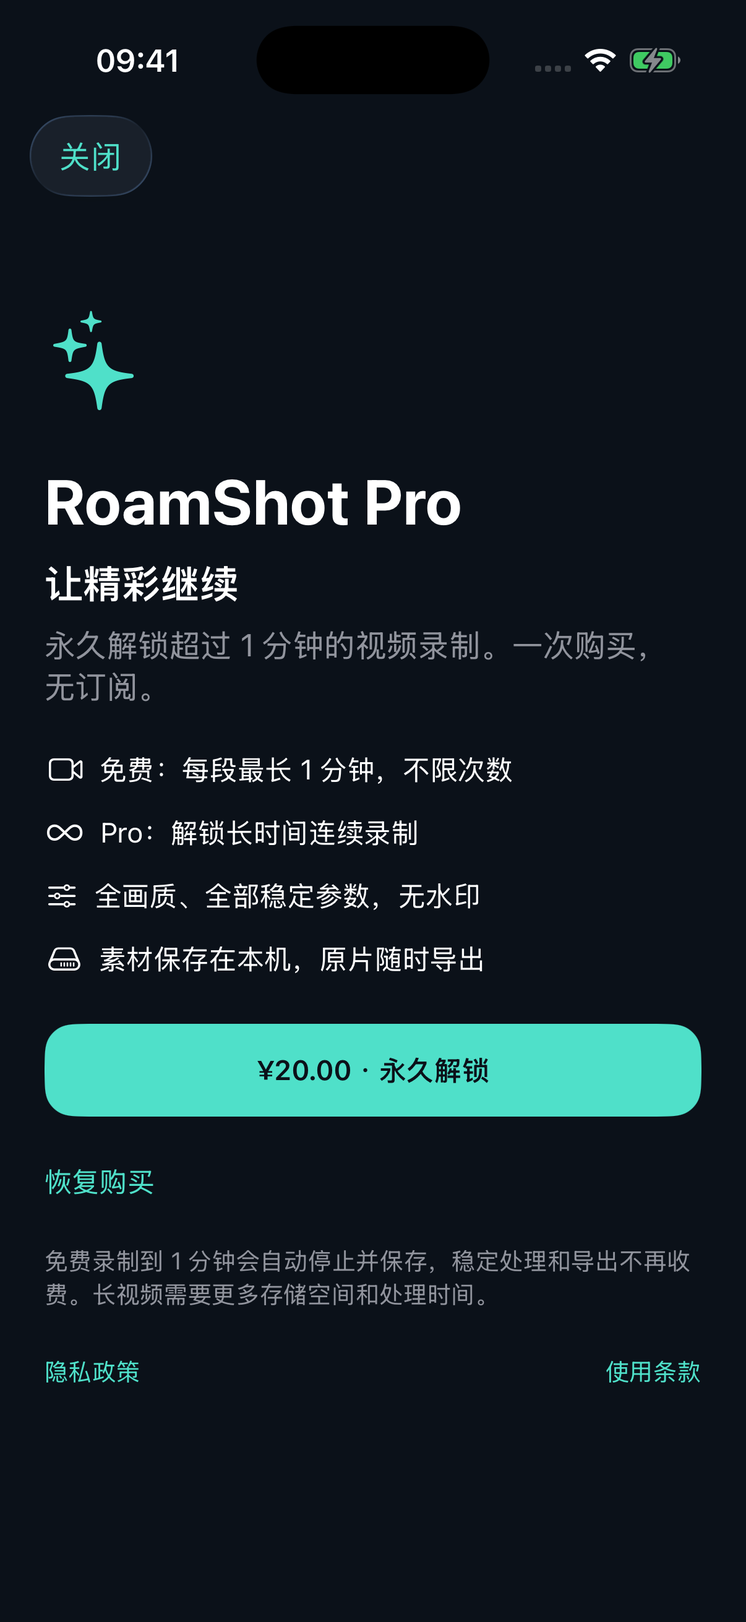
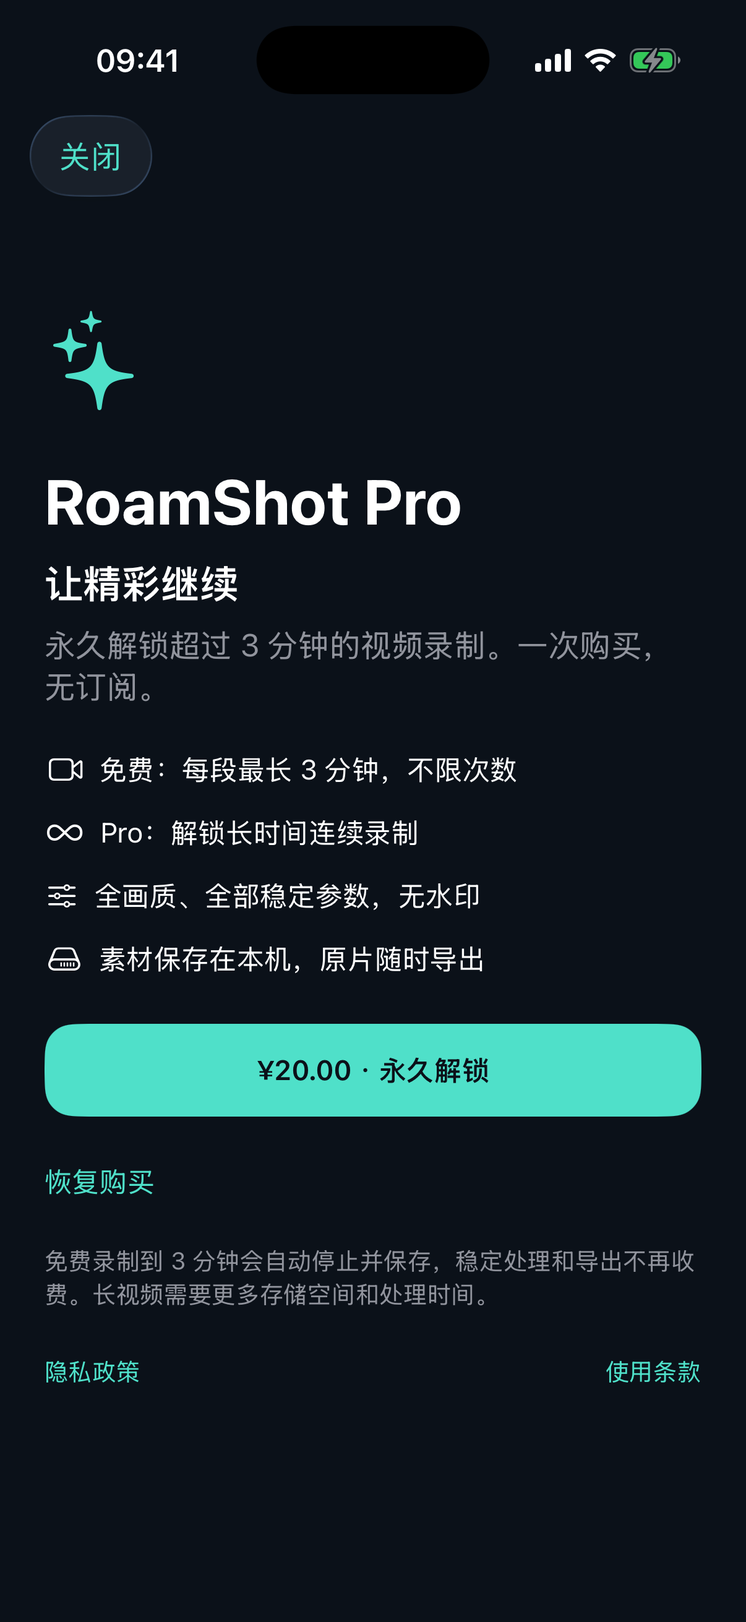
Increase free recording limit to three minutes

diff --git a/docs/app-store/review.html b/docs/app-store/review.html
@@ -1,9 +1,9 @@
 <!doctype html><html lang="zh-CN"><meta charset="utf-8"><meta name="viewport" content="width=device-width,initial-scale=1"><title>RoamShot 上架预览</title><style>
 *{box-sizing:border-box}body{margin:0;background:#0b1420;color:#f6f9fd;font:16px/1.65 -apple-system,BlinkMacSystemFont,"PingFang SC",sans-serif}main{max-width:1400px;margin:auto;padding:52px 32px}h1{font-size:40px;letter-spacing:-1px;margin:4px 0 12px}h2{font-size:23px;margin:35px 0 14px}.tag{color:#49dccc;font-weight:650}.lead{color:#aec0d0;font-size:19px;max-width:820px}.shot-plan{display:grid;grid-template-columns:repeat(2,1fr);gap:18px}.shot-plan>div{padding:25px;border:1px dashed #476478;border-radius:16px;background:#152334}.shot-plan h3{font-size:26px;margin:12px 0}.shot-plan p{color:#b4c6d8;margin:0}.cards{display:grid;grid-template-columns:repeat(3,1fr);gap:18px;margin-top:32px}.cards img{display:block;width:100%;border-radius:15px;border:1px solid #2b4054}.cards a:hover{transform:translateY(-4px)}a{color:#67ddd0;text-decoration:none;transition:.2s}.summary{display:grid;grid-template-columns:repeat(3,1fr);gap:14px;margin:30px 0}.summary div{padding:20px;background:#152334;border:1px solid #2c3d50;border-radius:16px}.summary b{display:block;font-size:22px}.summary span{color:#b4c6d8}.notice{padding:20px 24px;border-left:3px solid #4bdcc8;background:#142733;border-radius:0 12px 12px 0}p{max-width:900px}.copy{white-space:pre-line;color:#c6d4df}footer{margin:38px 0;color:#92a5b8}button,.action{display:inline-block;padding:13px 20px;border-radius:12px;background:#49dccc;color:#09202a;font-weight:700;margin:10px 12px 0 0}@media(max-width:900px){.cards{grid-template-columns:repeat(2,1fr)}.summary{grid-template-columns:1fr}}@media(max-width:500px){.shot-plan{grid-template-columns:1fr}main{padding:28px 18px}.cards{gap:10px}h1{font-size:31px}}
 </style><main><div class="tag">ROAMSHOT · APP STORE</div><h1>把 iPhone 变成运动相机。</h1><p class="lead">不用先买运动相机，从手中的 iPhone 开始。旅行、徒步、日常走拍，拍后轻松稳住画面；拉近远处，也支持长焦与变焦素材的拍后防抖。</p>
-<div class="summary"><div><b>1.0.0（27）</b><span>RoamShot · com.grape.RoamShot</span></div><div><b>中国大陆首发</b><span>免费下载 · 每段 1 分钟，不限次数</span></div><div><b>¥20 永久解锁</b><span>长时间连续录制 · 无订阅</span></div></div>
+<div class="summary"><div><b>1.0.2（34）</b><span>RoamShot · com.grape.RoamShot</span></div><div><b>中国大陆</b><span>免费下载 · 每段 3 分钟，不限次数</span></div><div><b>¥20 永久解锁</b><span>长时间连续录制 · 无订阅</span></div></div>
 <h2>拍摄、拉近、拍后稳定</h2><p>六张商店图，点击查看原尺寸。前两张使用新版实际拍摄控件与 AI 生成风景，展示 1× 和 2× 取景；画面已标注为演示素材。</p><div class="cards"><a href="screenshots/store/01-capture.png"><img src="screenshots/store/01-capture.png" alt="随身运动相机"></a><a href="screenshots/store/02-zoom.png"><img src="screenshots/store/02-zoom.png" alt="长焦与放大拍摄"></a><a href="screenshots/store/03-playback.png"><img src="screenshots/store/03-playback.png" alt="全屏回看"></a><a href="screenshots/store/04-simple.png"><img src="screenshots/store/04-simple.png" alt="轻松设置"></a><a href="screenshots/store/05-unlock.png"><img src="screenshots/store/05-unlock.png" alt="设置中永久解锁"></a><a href="screenshots/store/06-controls.png"><img src="screenshots/store/06-controls.png" alt="高级控制"></a></div>
-<h2>商店文案</h2><p class="tag">副标题：随身运动相机，长焦拍后防抖</p><p class="notice">把 iPhone 变成运动相机。旅行、徒步、日常走拍，用随身的手机记录，拍后轻松稳住画面；长焦与放大拍摄，也支持拍后防抖。每段 1 分钟免费拍摄，不限次数；长时间录制一次买断。</p><p class="copy">把 iPhone 变成运动相机。
+<h2>商店文案</h2><p class="tag">副标题：随身运动相机，长焦拍后防抖</p><p class="notice">把 iPhone 变成运动相机。旅行、徒步、日常走拍，用随身的手机记录，拍后轻松稳住画面；长焦与放大拍摄，也支持拍后防抖。每段 3 分钟免费拍摄，不限次数；长时间录制一次买断。</p><p class="copy">把 iPhone 变成运动相机。
 
 不用先买一台运动相机，从手中的 iPhone 开始。旅行、徒步、日常走拍，打开 RoamShot 记录眼前的精彩，拍摄后在手机上生成更稳定的视频。
 
@@ -20,7 +20,7 @@
 • 高级控制：按需调整裁切、缩放过渡和黑边。
 • 本机处理：无需上传素材，原片保留至手动删除。
 
-免费版每段最多录制 1 分钟，不限次数。轻点录制即可开始，到时自动停止并保存。升级入口在设置中，拍摄时不弹出购买提示。可使用全部稳定参数和导出功能，无水印。RoamShot Pro 一次购买永久解锁长时间连续录制，无订阅；价格以购买页面为准。
+免费版每段最多录制 3 分钟，不限次数。轻点录制即可开始，到时自动停止并保存。升级入口在设置中，拍摄时不弹出购买提示。可使用全部稳定参数和导出功能，无水印。RoamShot Pro 一次购买永久解锁长时间连续录制，无订阅；价格以购买页面为准。
 
 稳定处理适用于 RoamShot 拍摄的素材。录制规格和镜头切换取决于设备支持。较强的稳定可能需要更多裁切；高倍率、运动模糊、暗光和镜头切换会影响效果与画质。长视频需要足够存储和处理时间。</p>
-<h2>已填写的资料</h2><p>审核联系人和版权沿用 Sensor Recorder Pro。年龄分级 4+，隐私声明未收集数据；支持、隐私政策和使用条款网址已公开。App 与永久解锁内购放在同一审核草稿中。</p><div class="notice">尚未点击“提交以供审核”。确认后，在 App Store Connect 的“草稿提交”中检查 App 1.0.0（27）和永久解锁内购，再点击最后的提交按钮。当前配置为审核通过后自动发布。账户持有人需要处理 Apple 提示的新版开发者协议。</div><a class="action" href="https://appstoreconnect.apple.com/apps/6811549990/distribution/ios/version/inflight">打开 App Store Connect</a><a href="metadata-zh-Hans.md">查看完整资料</a><footer>截图中的风景为 AI 生成的界面演示素材，不作为防抖效果或真机拍摄证据。实际手机录满一分钟、购买恢复与 App Store 沙盒验收仍需完成。</footer></main></html>
+<h2>已填写的资料</h2><p>审核联系人和版权沿用 Sensor Recorder Pro。年龄分级 4+，隐私声明未收集数据；支持、隐私政策和使用条款网址已公开。App 与永久解锁内购放在同一审核草稿中。</p><div class="notice">尚未点击“提交以供审核”。确认后，在 App Store Connect 的“草稿提交”中检查 App 1.0.0（27）和永久解锁内购，再点击最后的提交按钮。当前配置为审核通过后自动发布。账户持有人需要处理 Apple 提示的新版开发者协议。</div><a class="action" href="https://appstoreconnect.apple.com/apps/6811549990/distribution/ios/version/inflight">打开 App Store Connect</a><a href="metadata-zh-Hans.md">查看完整资料</a><footer>截图中的风景为 AI 生成的界面演示素材，不作为防抖效果或真机拍摄证据。实际手机录满三分钟、购买恢复与 App Store 沙盒验收仍需完成。</footer></main></html>

diff --git a/docs/site/index.html b/docs/site/index.html
@@ -1,1 +1,1 @@
-<!doctype html><html lang="zh-CN"><meta charset="utf-8"><meta name="viewport" content="width=device-width, initial-scale=1"><title>RoamShot · 支持与帮助</title><link rel="stylesheet" href="style.css"><nav><a href="index.html">RoamShot</a><a href="privacy.html">隐私政策</a><a href="terms.html">使用条款</a></nav><main><div class="brand"><img class="icon" src="icon.png" alt="RoamShot 图标"><div><div class="tag">拍摄 · 稳定 · 分享</div><h1>RoamShot</h1></div></div><p>把 iPhone 变成运动相机。旅行、徒步、日常走拍，拍摄后在本机生成更稳定的视频，也支持长焦与变焦素材的拍后防抖。</p><section><h2>免费体验与永久解锁</h2><p>免费版每段最长录制 1 分钟，不限次数。到时自动停止并保存，稳定处理和导出均可正常使用。RoamShot Pro 一次购买，永久解锁超过 1 分钟的连续录制，无订阅。价格以 App 内显示和 Apple 购买确认页为准。</p></section><h2>如何使用</h2><ol><li>在拍摄设置中选择分辨率、帧率，以及稳定效果与输出尺寸。</li><li>轻点录制按钮直接开始；免费版录满 1 分钟会自动停止并保存。</li><li>停止录制后自动生成稳定视频。在素材中全屏播放、比较原片与结果，或调整效果重新生成。</li><li>轻点导出保存到相册。原片会保留到你手动删除素材。</li></ol><h2>升级与恢复购买</h2><p>升级入口位于「设置 → RoamShot Pro」，拍摄时不弹出购买提示。已购买用户可在该页面轻点「恢复购买」，使用购买时的 Apple 账户。购买等待批准时，批准后会自动更新权益。</p><h2>常见问题</h2><p><strong>处理速度与发热：</strong>高分辨率、高帧率和长视频需要更多时间、空间和电量。保持 App 在前台，设备过热时稍后再处理。</p><p><strong>灯光频闪与拖影：</strong>在室内灯光下可尝试自动曝光。较短曝光有助于减少运动模糊，但需要足够光线。</p><p><strong>导出失败：</strong>在系统设置中允许添加照片，检查可用存储后重试。导出直接保存现有视频。</p><h2>联系支持</h2><p>请通过 <a href="https://github.com/ydsf16/ios_action_camera/issues">GitHub Issues</a> 提交问题，注明 App 版本、iPhone 型号和操作步骤。请勿在公开问题中附上私人视频或账户信息。</p><p><a href="https://github.com/ydsf16/ios_action_camera">开源代码与许可</a></p></main><footer>RoamShot · 最后更新：2026 年 9 月 13 日</footer></html>
+<!doctype html><html lang="zh-CN"><meta charset="utf-8"><meta name="viewport" content="width=device-width, initial-scale=1"><title>RoamShot · 支持与帮助</title><link rel="stylesheet" href="style.css"><nav><a href="index.html">RoamShot</a><a href="privacy.html">隐私政策</a><a href="terms.html">使用条款</a></nav><main><div class="brand"><img class="icon" src="icon.png" alt="RoamShot 图标"><div><div class="tag">拍摄 · 稳定 · 分享</div><h1>RoamShot</h1></div></div><p>把 iPhone 变成运动相机。旅行、徒步、日常走拍，拍摄后在本机生成更稳定的视频，也支持长焦与变焦素材的拍后防抖。</p><section><h2>免费体验与永久解锁</h2><p>免费版每段最长录制 3 分钟，不限次数。到时自动停止并保存，稳定处理和导出均可正常使用。RoamShot Pro 一次购买，永久解锁超过 3 分钟的连续录制，无订阅。价格以 App 内显示和 Apple 购买确认页为准。</p></section><h2>如何使用</h2><ol><li>在拍摄设置中选择分辨率、帧率，以及稳定效果与输出尺寸。</li><li>轻点录制按钮直接开始；免费版录满 3 分钟会自动停止并保存。</li><li>停止录制后自动生成稳定视频。在素材中全屏播放、比较原片与结果，或调整效果重新生成。</li><li>轻点导出保存到相册。原片会保留到你手动删除素材。</li></ol><h2>升级与恢复购买</h2><p>升级入口位于「设置 → RoamShot Pro」，拍摄时不弹出购买提示。已购买用户可在该页面轻点「恢复购买」，使用购买时的 Apple 账户。购买等待批准时，批准后会自动更新权益。</p><h2>常见问题</h2><p><strong>处理速度与发热：</strong>高分辨率、高帧率和长视频需要更多时间、空间和电量。保持 App 在前台，设备过热时稍后再处理。</p><p><strong>灯光频闪与拖影：</strong>在室内灯光下可尝试自动曝光。较短曝光有助于减少运动模糊，但需要足够光线。</p><p><strong>导出失败：</strong>在系统设置中允许添加照片，检查可用存储后重试。导出直接保存现有视频。</p><h2>联系支持</h2><p>请通过 <a href="https://github.com/ydsf16/ios_action_camera/issues">GitHub Issues</a> 提交问题，注明 App 版本、iPhone 型号和操作步骤。请勿在公开问题中附上私人视频或账户信息。</p><p><a href="https://github.com/ydsf16/ios_action_camera">开源代码与许可</a></p></main><footer>RoamShot · 最后更新：2026 年 9 月 13 日</footer></html>

diff --git a/docs/site/terms.html b/docs/site/terms.html
@@ -1,1 +1,1 @@
-<!doctype html><html lang="zh-CN"><meta charset="utf-8"><meta name="viewport" content="width=device-width, initial-scale=1"><title>RoamShot 使用条款</title><link rel="stylesheet" href="style.css"><nav><a href="index.html">RoamShot</a><a href="privacy.html">隐私政策</a><a href="terms.html">使用条款</a></nav><main><h1>使用条款</h1><p>更新日期：2026 年 9 月 13 日</p><h2>免费版</h2><p>每段录制最长 1 分钟，次数不限。达到时限会自动停止并保存。所有已保存素材均可进行稳定处理及导出，使用相同画质和稳定参数，不加水印。</p><h2>RoamShot Pro</h2><p>一次购买，永久解锁超过 1 分钟的连续录制，无订阅。录制仍受设备温度、电量和可用存储等条件限制。实际价格与币种以 App 内显示及 Apple 购买确认页为准。</p><h2>购买、恢复与退款</h2><p>通过 Apple 的 App 内购买付款。同一 Apple 账户可在 App 设置中恢复购买。退款由 Apple 依适用规则处理；退款或撤销购买后，之后的免费录制恢复为每段 1 分钟，已有素材保留。</p><h2>视频与设备</h2><p>请妥善备份重要素材。稳定效果取决于拍摄运动、光线、曝光、镜头切换等条件。调整稳定参数或输出尺寸可能需要重新生成视频。</p><h2>许可与支持</h2><p>RoamShot 及其中的开源组件按对应开源许可证提供，包括 GPLv3 及 App Store 附加许可。具体文本、对应源代码与构建说明可在 <a href="https://github.com/ydsf16/ios_action_camera">项目仓库</a> 和 App 内「开源许可」查看。以上说明不限制开源许可证授予的权利或适用法律保障的消费者权利。</p><p>问题请联系 <a href="https://github.com/ydsf16/ios_action_camera/issues">项目支持</a>。</p></main><footer><a href="privacy.html">隐私政策</a></footer></html>
+<!doctype html><html lang="zh-CN"><meta charset="utf-8"><meta name="viewport" content="width=device-width, initial-scale=1"><title>RoamShot 使用条款</title><link rel="stylesheet" href="style.css"><nav><a href="index.html">RoamShot</a><a href="privacy.html">隐私政策</a><a href="terms.html">使用条款</a></nav><main><h1>使用条款</h1><p>更新日期：2026 年 9 月 13 日</p><h2>免费版</h2><p>每段录制最长 3 分钟，次数不限。达到时限会自动停止并保存。所有已保存素材均可进行稳定处理及导出，使用相同画质和稳定参数，不加水印。</p><h2>RoamShot Pro</h2><p>一次购买，永久解锁超过 3 分钟的连续录制，无订阅。录制仍受设备温度、电量和可用存储等条件限制。实际价格与币种以 App 内显示及 Apple 购买确认页为准。</p><h2>购买、恢复与退款</h2><p>通过 Apple 的 App 内购买付款。同一 Apple 账户可在 App 设置中恢复购买。退款由 Apple 依适用规则处理；退款或撤销购买后，之后的免费录制恢复为每段 3 分钟，已有素材保留。</p><h2>视频与设备</h2><p>请妥善备份重要素材。稳定效果取决于拍摄运动、光线、曝光、镜头切换等条件。调整稳定参数或输出尺寸可能需要重新生成视频。</p><h2>许可与支持</h2><p>RoamShot 及其中的开源组件按对应开源许可证提供，包括 GPLv3 及 App Store 附加许可。具体文本、对应源代码与构建说明可在 <a href="https://github.com/ydsf16/ios_action_camera">项目仓库</a> 和 App 内「开源许可」查看。以上说明不限制开源许可证授予的权利或适用法律保障的消费者权利。</p><p>问题请联系 <a href="https://github.com/ydsf16/ios_action_camera/issues">项目支持</a>。</p></main><footer><a href="privacy.html">隐私政策</a></footer></html>

diff --git a/App/Commerce/ProUpgradeView.swift b/App/Commerce/ProUpgradeView.swift
@@ -4,6 +4,13 @@ import SwiftUI
 struct ProUpgradeView: View {
     @Environment(\.dismiss) private var dismiss
     @ObservedObject private var access = ProAccess.shared
+    private var screenshotPrice: String? {
+        #if DEBUG && targetEnvironment(simulator)
+        ProcessInfo.processInfo.arguments.contains("--store-upgrade-screenshot") ? "¥20.00 · 永久解锁" : nil
+        #else
+        nil
+        #endif
+    }
     var body: some View {
         NavigationStack {
             ScrollView {
@@ -13,11 +20,11 @@ struct ProUpgradeView: View {
                     VStack(alignment: .leading, spacing: 10) {
                         Text("RoamShot Pro").font(.largeTitle.bold())
                         Text(access.hasPro ? "已永久解锁" : "让精彩继续").font(.title2.weight(.semibold))
-                        Text("永久解锁超过 1 分钟的视频录制。一次购买，无订阅。")
+                        Text("永久解锁超过 3 分钟的视频录制。一次购买，无订阅。")
                             .foregroundStyle(.secondary)
                     }
                     VStack(alignment: .leading, spacing: 16) {
-                        Label("免费：每段最长 1 分钟，不限次数", systemImage: "video")
+                        Label("免费：每段最长 3 分钟，不限次数", systemImage: "video")
                         Label("Pro：解锁长时间连续录制", systemImage: "infinity")
                         Label("全画质、全部稳定参数，无水印", systemImage: "slider.horizontal.3")
                         Label("素材保存在本机，原片随时导出", systemImage: "internaldrive")
@@ -30,9 +37,9 @@ struct ProUpgradeView: View {
                         } label: {
                             HStack {
                                 if access.busy || access.loadingProduct { ProgressView() }
-                                Text(access.product.map { "\($0.displayPrice) · 永久解锁" } ?? "正在获取价格")
+                                Text(screenshotPrice ?? access.product.map { "\($0.displayPrice) · 永久解锁" } ?? "正在获取价格")
                             }.frame(maxWidth: .infinity)
-                        }.buttonStyle(PrimaryActionStyle()).disabled(access.busy || access.product == nil)
+                        }.buttonStyle(PrimaryActionStyle()).disabled(access.busy || (access.product == nil && screenshotPrice == nil))
                         HStack {
                             Button("恢复购买") { Task { await access.restore() } }
                             Spacer()
@@ -40,7 +47,7 @@ struct ProUpgradeView: View {
                         }.font(.subheadline).disabled(access.busy || access.loadingProduct)
                     }
                     if let message = access.message { Text(message).font(.footnote).foregroundStyle(AppTheme.amber) }
-                    Text("免费录制到 1 分钟会自动停止并保存，稳定处理和导出不再收费。长视频需要更多存储空间和处理时间。")
+                    Text("免费录制到 3 分钟会自动停止并保存，稳定处理和导出不再收费。长视频需要更多存储空间和处理时间。")
                         .font(.footnote).foregroundStyle(.secondary)
                     HStack {
                         Link("隐私政策", destination: AppLinks.privacy)

diff --git a/scripts/render_store_screenshots.swift b/scripts/render_store_screenshots.swift
@@ -15,7 +15,7 @@ let cards = [
  Card(file:"02-zoom.png",source:"raw/zoom.png",label:"长焦与变焦",title:"拉近远处，\n拍后稳住。",subtitle:"长焦与放大拍摄，也能进行拍后防抖。",footnote:"界面演示 · AI 生成风景 · 非实拍防抖对比",accent:0x6AABF5),
  Card(file:"03-playback.png",source:"raw/playback.png",label:"全屏回看",title:"拍完以后，\n再选稳定感。",subtitle:"原片保留，随时调整与导出。",footnote:"实际应用界面 · 风景为 AI 生成的演示素材",accent:0x46DAC6),
  Card(file:"04-simple.png",source:"raw/simple.png",label:"轻松设置",title:"三档稳定，\n一点就好。",subtitle:"自然 / 标准 / 强力 · 支持重力水平锁定",footnote:"生成前选择 1080p 或 2.8K 输出",accent:0x6AABF5),
- Card(file:"05-unlock.png",source:"iap-review.png",label:"免费开始",title:"免费拍摄，\n随时出发。",subtitle:"每段 1 分钟免费 · 长时间录制一次买断",footnote:"升级入口在设置 · 稳定与导出无水印 · 无订阅",accent:0x46DAC6),
+ Card(file:"05-unlock.png",source:"iap-review.png",label:"免费开始",title:"免费拍摄，\n随时出发。",subtitle:"每段 3 分钟免费 · 长时间录制一次买断",footnote:"升级入口在设置 · 稳定与导出无水印 · 无订阅",accent:0x46DAC6),
  Card(file:"06-controls.png",source:"raw/advanced.png",label:"高级控制",title:"视野与裁切，\n由你决定。",subtitle:"动态缩放、裁切上限、允许黑边。",footnote:"稳定效果取决于素材、光线和所选参数",accent:0xB29AF8)
 ]
 try FileManager.default.createDirectory(at: root.appendingPathComponent("store"), withIntermediateDirectories:true)

diff --git a/App/Views/CameraView.swift b/App/Views/CameraView.swift
@@ -101,7 +101,7 @@ struct CameraView: View {
                     if camera.zoomRange.maximum > camera.zoomRange.minimum { CameraZoomControls(camera: camera) }
 
                     if recording && !access.hasPro {
-                        Text("\(max(0, 60 - Int(camera.duration))) 秒后自动保存")
+                        Text("\(max(0, Int(RecordingLimitPolicy.freeSeconds) - Int(camera.duration))) 秒后自动保存")
                             .font(.caption).foregroundStyle(.white.opacity(0.85))
                     }
                     Text(camera.phase == .finishing ? "正在保存…" : "视频")
@@ -281,7 +281,7 @@ private struct RecordingSettingsView: View {
                             Text(access.hasPro ? "已永久解锁" : "永久解锁").font(.subheadline).foregroundStyle(AppTheme.accent)
                         }
                     }
-                } footer: { Text("免费每段最长 1 分钟，到点自动保存。Pro 解锁长时间录制，稳定处理和导出不另收费。") }
+                } footer: { Text("免费每段最长 3 分钟，到点自动保存。Pro 解锁长时间录制，稳定处理和导出不另收费。") }
                     .listRowBackground(AppTheme.surface)
                 Section {
                     CaptureFormatControls(camera: camera, showIcons: true).disabled(camera.phase != .ready)

diff --git a/Tests/CaptureCoreTests/RecordingLimitPolicyTests.swift b/Tests/CaptureCoreTests/RecordingLimitPolicyTests.swift
@@ -5,14 +5,14 @@ final class RecordingLimitPolicyTests: XCTestCase {
     func testFrameBoundaryAtAllSupportedRates() {
         for fps in [24.0, 30, 60] {
             let limit = RecordingLimitPolicy.maximumDuration(hasPro: false)
-            XCTAssertFalse(RecordingLimitPolicy.reached(duration: 60 - 1/fps, maximumDuration: limit))
-            XCTAssertTrue(RecordingLimitPolicy.reached(duration: 60, maximumDuration: limit))
-            XCTAssertTrue(RecordingLimitPolicy.reached(duration: 60 + 1/fps, maximumDuration: limit))
+            XCTAssertFalse(RecordingLimitPolicy.reached(duration: 180 - 1/fps, maximumDuration: limit))
+            XCTAssertTrue(RecordingLimitPolicy.reached(duration: 180, maximumDuration: limit))
+            XCTAssertTrue(RecordingLimitPolicy.reached(duration: 180 + 1/fps, maximumDuration: limit))
         }
     }
     func testPurchaseAndRefundAffectNextRecordingLimit() {
         XCTAssertNil(RecordingLimitPolicy.maximumDuration(hasPro: true))
         XCTAssertFalse(RecordingLimitPolicy.reached(duration: 600, maximumDuration: nil))
-        XCTAssertEqual(RecordingLimitPolicy.maximumDuration(hasPro: false), 60)
+        XCTAssertEqual(RecordingLimitPolicy.maximumDuration(hasPro: false), 180)
     }
 }

diff --git a/Sources/CaptureCore/RecordingLimitPolicy.swift b/Sources/CaptureCore/RecordingLimitPolicy.swift
@@ -2,7 +2,7 @@
 import Foundation
 
 public enum RecordingLimitPolicy {
-    public static let freeSeconds = 60.0
+    public static let freeSeconds = 180.0
     public static func maximumDuration(hasPro: Bool) -> Double? { hasPro ? nil : freeSeconds }
     public static func reached(duration: Double, maximumDuration: Double?) -> Bool {
         guard let maximumDuration else { return false }

diff --git a/scripts/generate_project.py b/scripts/generate_project.py
@@ -57,7 +57,7 @@ for mode in ['Debug', 'Release']:
     appsettings = {'PRODUCT_NAME':'$(TARGET_NAME)', 'PRODUCT_BUNDLE_IDENTIFIER':'com.grape.RoamShot',
         'INFOPLIST_FILE':'App/Resources/Info.plist', 'GENERATE_INFOPLIST_FILE':'NO', 'TARGETED_DEVICE_FAMILY':'1',
         'SUPPORTED_PLATFORMS':'iphoneos iphonesimulator', 'SUPPORTS_MACCATALYST':'NO',
-        'SUPPORTS_MAC_DESIGNED_FOR_IPHONE_IPAD':'NO', 'MARKETING_VERSION':'1.0.2', 'CURRENT_PROJECT_VERSION':'33',
+        'SUPPORTS_MAC_DESIGNED_FOR_IPHONE_IPAD':'NO', 'MARKETING_VERSION':'1.0.2', 'CURRENT_PROJECT_VERSION':'34',
         'ASSETCATALOG_COMPILER_APPICON_NAME':'AppIcon',
         'CODE_SIGN_STYLE':'Automatic', 'DEVELOPMENT_TEAM':'F2LVFHW3ZH',
         'LD_RUNPATH_SEARCH_PATHS':'$(inherited) @executable_path/Frameworks',

diff --git a/docs/app-store/metadata-zh-Hans.md b/docs/app-store/metadata-zh-Hans.md
@@ -1,4 +1,4 @@
-# RoamShot 1.0.0 商店资料
+# RoamShot 1.0.2 商店资料
 
 名称：RoamShot
 副标题：随身运动相机，长焦拍后防抖
@@ -9,16 +9,16 @@
 隐私：https://ydsf16.github.io/ios_action_camera/privacy.html
 内购 ID：com.grape.RoamShot.pro.lifetime
 内购名称：RoamShot Pro 永久解锁
-内购描述：一次购买，永久解锁超过 1 分钟的连续录制。
+内购描述：一次购买，永久解锁超过 3 分钟的连续录制。
 中国区价格：¥20（已在 App Store Connect 保存并复查）
 首发地区：中国大陆
 版权：2026 Xiaocong Jiang（沿用 Sensor Recorder Pro）
 审核联系人：沿用同账号 Sensor Recorder Pro 的现有资料，已填写到 App Store Connect；不提交私人联系字段到公开仓库。
-发布方式：审核通过后自动发布；最终提交审核由用户操作。
+发布方式：审核通过后自动发布。
 
 ## 推广文本
 
-把 iPhone 变成运动相机。旅行、徒步、日常走拍，用随身的手机记录，拍后轻松稳住画面；长焦与放大拍摄，也支持拍后防抖。每段 1 分钟免费拍摄，不限次数；长时间录制一次买断。
+把 iPhone 变成运动相机。旅行、徒步、日常走拍，用随身的手机记录，拍后轻松稳住画面；长焦与放大拍摄，也支持拍后防抖。每段 3 分钟免费拍摄，不限次数；长时间录制一次买断。
 
 ## 描述
 
@@ -39,7 +39,7 @@
 • 高级控制：按需调整裁切、缩放过渡和黑边。
 • 本机处理：无需上传素材，原片保留至手动删除。
 
-免费版每段最多录制 1 分钟，不限次数。轻点录制即可开始，到时自动停止并保存。升级入口在设置中，拍摄时不弹出购买提示。可使用全部稳定参数和导出功能，无水印。RoamShot Pro 一次购买永久解锁长时间连续录制，无订阅；价格以购买页面为准。
+免费版每段最多录制 3 分钟，不限次数。轻点录制即可开始，到时自动停止并保存。升级入口在设置中，拍摄时不弹出购买提示。可使用全部稳定参数和导出功能，无水印。RoamShot Pro 一次购买永久解锁长时间连续录制，无订阅；价格以购买页面为准。
 
 稳定处理适用于 RoamShot 拍摄的素材。录制规格和镜头切换取决于设备支持。较强的稳定可能需要更多裁切；高倍率、运动模糊、暗光和镜头切换会影响效果与画质。长视频需要足够存储和处理时间。
 
@@ -47,7 +47,7 @@
 
 No app login is required. Camera, microphone and motion permissions are required for capture. Photos add-only permission is requested only when saving a movie.
 
-The non-consumable IAP unlocks continuous recordings longer than 60 seconds. Tapping Record starts immediately for free users without a purchase prompt. Recording stops automatically and saves at 60 seconds, without a purchase dialog. The upgrade and Restore Purchases entry is in Settings > RoamShot Pro. Stabilization, original playback and export are available for all saved recordings without further payment. Settings > RoamShot Pro > Restore Purchases restores the lifetime entitlement.
+The non-consumable IAP unlocks continuous recordings longer than 180 seconds. Tapping Record starts immediately for free users without a purchase prompt. Recording stops automatically and saves at 180 seconds, without a purchase dialog. The upgrade and Restore Purchases entry is in Settings > RoamShot Pro. Stabilization, original playback and export are available for all saved recordings without further payment. Settings > RoamShot Pro > Restore Purchases restores the lifetime entitlement.
 
 The app stabilizes its own recordings using synchronized motion data on-device. No cloud processing or separate user account is used. The app includes GPLv3 code with an App Store exception; matching source and license information are linked in Settings.
 
@@ -57,6 +57,6 @@ The capture, zoom and playback screenshots use AI-generated scenery solely as il
 
 - 账户持有人处理待更新协议；App 记录 6811549990 已创建，Bundle ID com.grape.RoamShot，云管理 Apple Distribution 签名导出成功。
 - 本地 StoreKit 购买与退款自动撤权已验证。StoreKitTest 自动会话受运行时配置错误影响；完整恢复、待批准和 App Store sandbox 仍需验收。内购记录 6811551799，价格 ¥20 已确认。
-- 真机 4K60 录满一分钟自动停止、正常封装、IMU 时钟及稳定导出。
+- 真机 4K60 录满三分钟自动停止、正常封装、IMU 时钟及稳定导出。
 - 支持与隐私链接公开可访问；对应源代码已发布。
-- 六张商店图已准备；前两张使用实际生产控件与 AI 海岸演示素材，详情见 screenshots/README.md。审核联系人和版权已准备；年龄 4+，隐私声明未收集数据，首发中国大陆。App 1.0.0（27）与永久解锁内购组成同一审核草稿；最终提交由用户操作。
+- 六张商店图已准备；前两张使用实际生产控件与 AI 海岸演示素材，详情见 screenshots/README.md。审核联系人和版权已准备；年龄 4+，隐私声明未收集数据，首发中国大陆。App 1.0.2（34）使用已获批的永久解锁内购。

diff --git a/docs/app-store/screenshots/README.md b/docs/app-store/screenshots/README.md
@@ -6,12 +6,12 @@ Uploads are in `store/`, ordered 01–06. Each PNG is 1284×2778, opaque RGB, fo
 - `02-zoom.png`: the same simulator scene at 2×, selected using the real zoom control. This is a central enlargement for UI illustration, not an optical lens measurement, actual capture, or proof of stabilization quality. Both camera images are labeled as illustrative AI media.
 - `03-playback.png`: actual build 26 playback UI, unchanged in build 27. An eight-second synthetic 4K60 fixture with zero gyro and AI landscape was processed for this screenshot. The labeled image is not a synchronization measurement or before/after comparison.
 - `04-simple.png`: actual build 26 settings UI, unchanged in build 27. Standard, gravity level and 2.8K are selected as unsaved simulator screenshot settings.
-- `05-unlock.png`: actual build 27 settings upgrade page, captured with the Xcode CommerceQA scheme and local StoreKit configuration. Shows the ¥20 lifetime product; no free-recording button or automatic recording paywall. App Store Connect China base price is ¥20.
+- `05-unlock.png`: actual build 34 settings upgrade page, captured with the isolated Debug simulator price fixture. Shows the saved ¥20 lifetime product; no free-recording button or automatic recording paywall. The fixture is excluded from Release builds.
 - `06-controls.png`: actual expanded advanced settings, unchanged in build 27, including crop, black borders and zoom transition.
 
 `raw/capture.png` and `raw/zoom.png` use the RoamShot Store Screenshots simulator (iPhone 14 Plus, iOS 26.3). Launch the Debug app with `--store-camera-image` followed by the absolute path to `sample-coast.png`, then use the existing 2× button. The fixture is compiled only for Debug simulators; it is excluded from all physical-device and Release builds. These screenshots demonstrate the production interface with generated sample media, not a working simulator camera.
 
-`iap-review.png` is the unframed build 27 IAP review screenshot (RoamShot UI QA, iPhone 17 Pro simulator). Other originals remain in `raw/`. `sample-landscape.png` and `sample-coast.png` were generated for this app's marketing. No family recordings or third-party photographs are included.
+`iap-review.png` is the unframed build 34 IAP review screenshot (RoamShot UI QA, iPhone 17 Pro simulator), launched with `--upgrade --store-upgrade-screenshot`. Other originals remain in `raw/`. `sample-landscape.png` and `sample-coast.png` were generated for this app's marketing. No family recordings or third-party photographs are included.
 
 The user requested generated scenery because outdoor imagery was unavailable at night. The coastal-image prompt and built-in tool provenance are in `generation-prompts.md`. Actual phone recording, telephoto stabilization and purchase acceptance remain separate.
 

diff --git a/docs/app-store/screenshots/capture-shot-plan.md b/docs/app-store/screenshots/capture-shot-plan.md
@@ -8,7 +8,7 @@
 | 2 | 拉近远处，拍后稳住。 | 长焦与放大拍摄，也能进行拍后防抖。 | 同一生成场景拉近后的相机控件界面，显示当前倍率；按实际设备支持操作，不将数字变焦称作独立长焦镜头。静态截图只说明功能，不能证明防抖效果。 |
 | 3 | 拍完以后，再选稳定感。 | 原片保留，随时调整与导出。 | 已有播放页截图；明确标注风景为 AI 演示素材。后续可用得到授权的真实素材替换。 |
 | 4 | 三档稳定，一点就好。 | 自然 / 标准 / 强力 · 支持重力水平锁定 | 已有简洁设置截图，默认 2.8K 输出。 |
-| 5 | 先免费拍，再决定。 | 每段 1 分钟免费 · 长时间录制一次买断 | build 27 设置购买页截图，¥20 永久解锁、无订阅；无免费录制按钮。 |
+| 5 | 先免费拍，再决定。 | 每段 3 分钟免费 · 长时间录制一次买断 | build 27 设置购买页截图，¥20 永久解锁、无订阅；无免费录制按钮。 |
 
 高级控制图放在第六张作为补充，前面的图片集中介绍拍摄和使用价值。不要使用“完全替代专业运动相机”“长焦绝对不抖”等未经验证的承诺。
 
